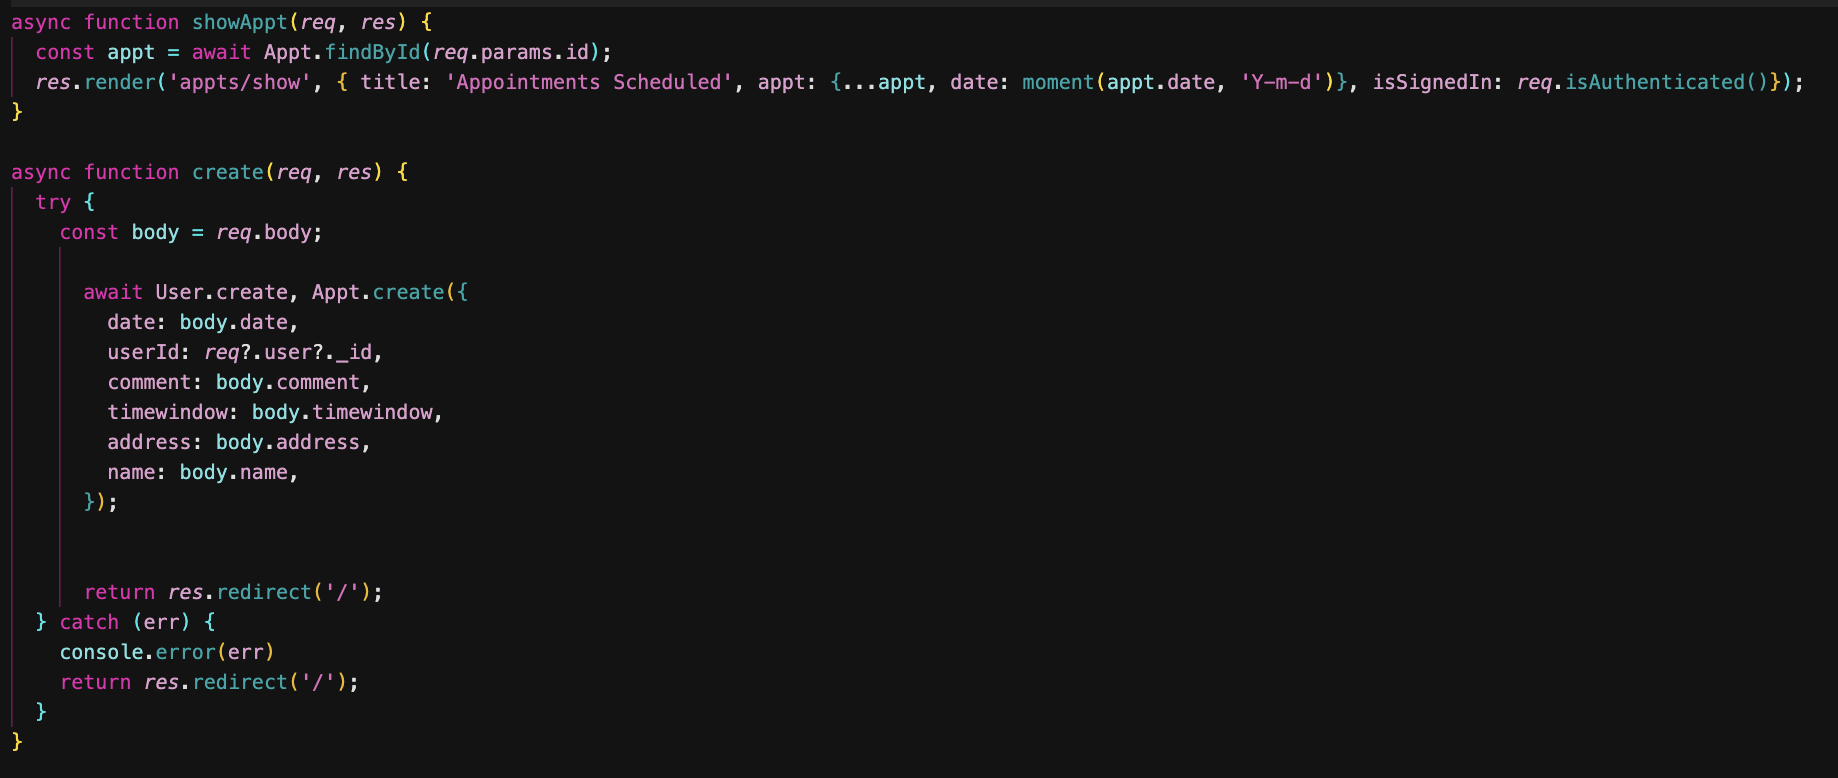
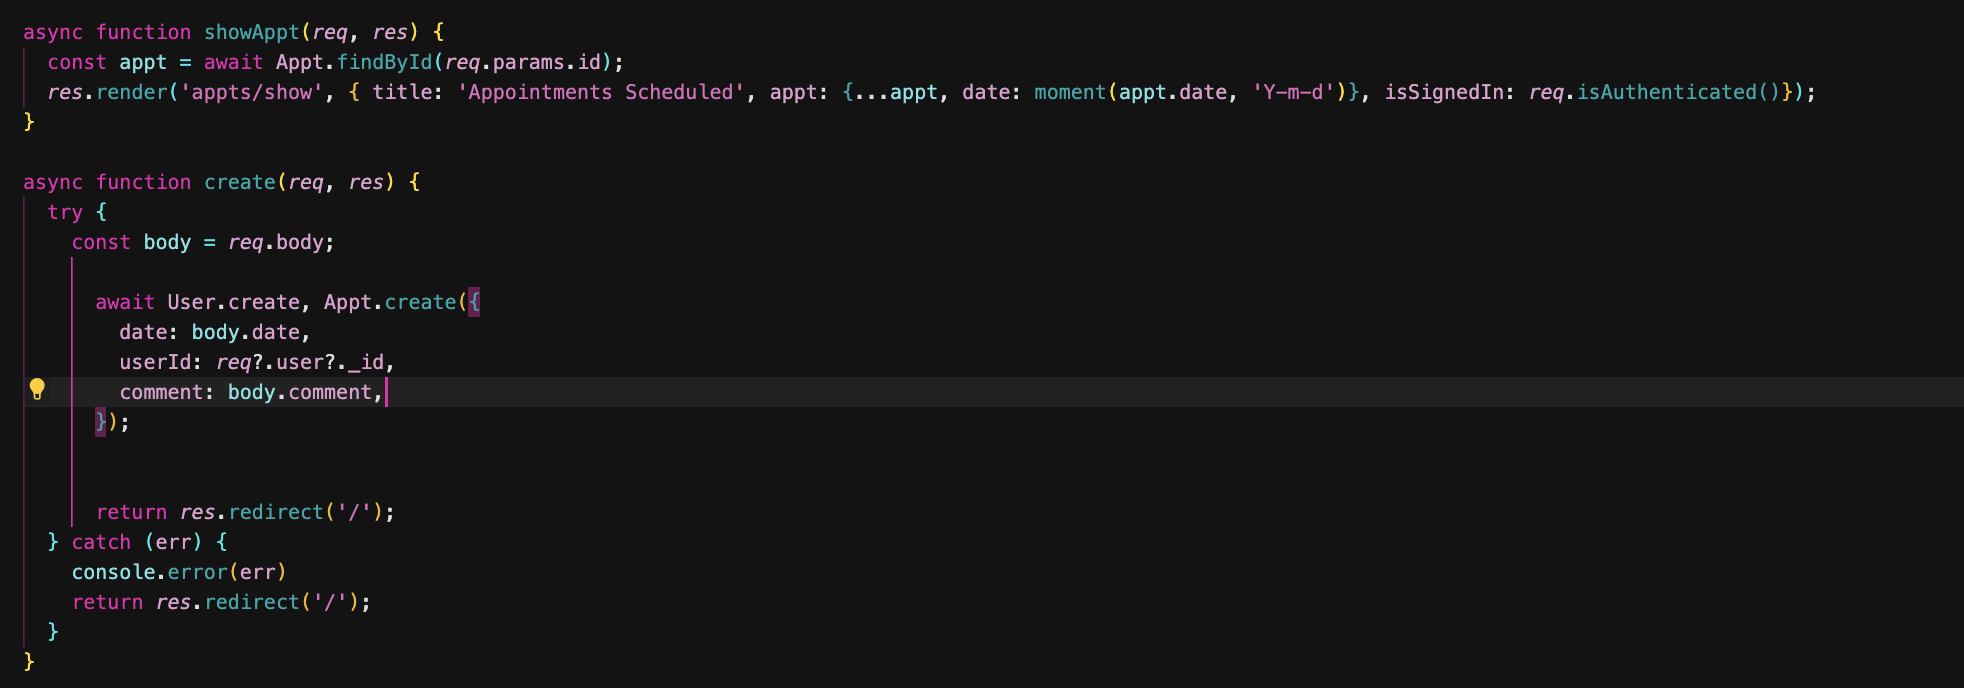
readme

diff --git a/controllers/appts.js b/controllers/appts.js
@@ -37,9 +37,6 @@ async function create(req, res) {
         date: body.date,
         userId: req?.user?._id,
         comment: body.comment,
-        timewindow: body.timewindow,
-        address: body.address,
-        name: body.name,
       });
 
 
